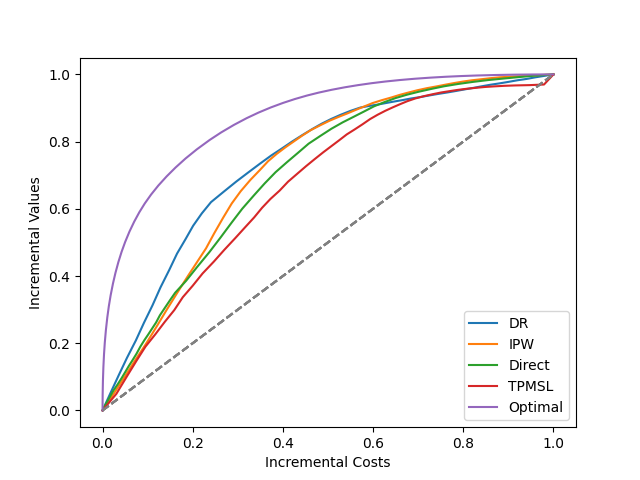
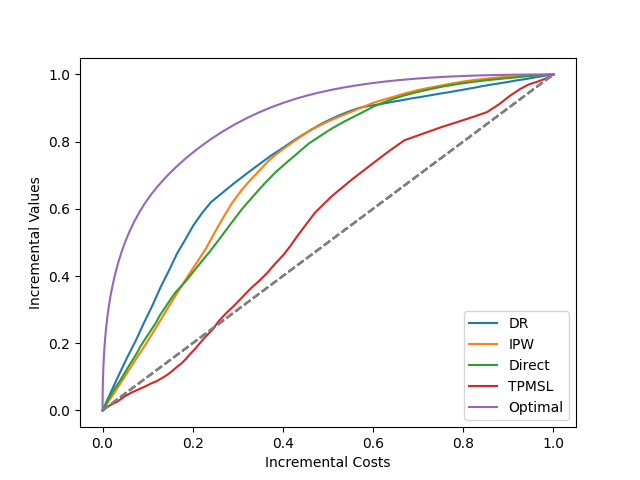
s learnerの実装

diff --git a/main.py b/main.py
@@ -1,7 +1,10 @@
+from typing import Any
+
 import matplotlib.pyplot as plt
 import numpy as np
 import torch
 from lightgbm import LGBMClassifier
+from numpy.typing import NDArray
 from sklearn.preprocessing import MinMaxScaler
 
 from src.evaluate.evaluate import calculate_values, cost_curve
@@ -13,14 +16,18 @@ from src.trainer import Trainer
 torch.manual_seed(42)
 
 
-def get_roi_tpmsl(X_train, y_r_train, y_c_train, T_train, X_test):
-    X = np.concatenate([X_train, T_train.reshape(-1, 1)], axis=1)
-    reg_r = LGBMClassifier(verbose=-1)
-    reg_r.fit(X, y_r_train)
-    reg_c = LGBMClassifier(verbose=-1)
-    reg_c.fit(X, y_c_train)
-    X_0 = np.hstack([X_test, np.zeros((len(X_test), 1))])
-    X_1 = np.hstack([X_test, np.ones((len(X_test), 1))])
+def get_roi_tpmsl(
+    train_dataset: dict[str, NDArray[Any]], test_dataset: dict[str, NDArray[Any]]
+) -> NDArray[np.float64]:
+    X = np.concatenate(
+        [train_dataset["features"], train_dataset["T"].reshape(-1, 1)], axis=1
+    )
+    reg_r = LGBMClassifier(verbose=-1, random_state=42)
+    reg_r.fit(X, train_dataset["y_r"])
+    reg_c = LGBMClassifier(verbose=-1, random_state=42)
+    reg_c.fit(X, train_dataset["y_c"])
+    X_0 = np.hstack([test_dataset["features"], np.zeros((len(test_dataset["features"]), 1))])
+    X_1 = np.hstack([test_dataset["features"], np.ones((len(test_dataset["features"]), 1))])
     mu_r_0 = reg_r.predict_proba(X_0)[:, 1]
     mu_r_1 = reg_r.predict_proba(X_1)[:, 1]
     mu_c_0 = reg_c.predict_proba(X_0)[:, 1]
@@ -85,14 +92,49 @@ def main(predict_ps: bool) -> None:
         trainer.save_model(model, "model.pth")
         predictions = trainer.predict(dl=test_dl, model=model).squeeze()
         roi_dic[method] = predictions
-    roi_tpmsl = get_roi_tpmsl(
-        train_dataset["features"],
-        train_dataset["y_r"],
-        train_dataset["y_c"],
-        train_dataset["T"],
-        test_dataset["features"],
-    )
-    roi_dic["TPMSL"] = roi_tpmsl
+    # roi_tpmsl = get_roi_tpmsl(
+    #     train_dataset,
+    #     test_dataset,
+    # )
+    # roi_dic["TPMSL"] = roi_tpmsl
+    model_name = "SLearner"
+    model_params = {"input_dim": n_features + 1}
+    model = get_model(model_name=model_name, model_params=model_params)
+    method_list: list = ["revenue", "cost"]
+    prediction_sl: dict[str, NDArray[np.float64]] = {}
+    for method in method_list:
+        train_dl = make_loader(
+            train_dataset,
+            model_name=model_name,
+            batch_size=batch_size,
+            train_flg=True,
+            method=method,
+            seed=seed,
+        )
+        val_dl = make_loader(
+            val_dataset,
+            model_name=model_name,
+            batch_size=batch_size,
+            train_flg=True,
+            method=method,
+            seed=seed,
+        )
+        test_dl = make_loader(
+            test_dataset,
+            model_name=model_name,
+            batch_size=batch_size,
+            train_flg=False,
+            method=method,
+            seed=seed,
+        )
+        trainer = Trainer(num_epochs=num_epochs, lr=lr)
+        model = trainer.train(train_dl=train_dl, val_dl=val_dl, model=model)
+        trainer.save_model(model, "model.pth")
+        predictions = trainer.predict(dl=test_dl, model=model).squeeze()
+        prediction_sl[method] = predictions
+    roi_dic["TPMSL"] = prediction_sl["revenue"] / prediction_sl["cost"]
+    scaler = MinMaxScaler()
+    roi_dic["TPMSL"] = scaler.fit_transform(roi_dic["TPMSL"].reshape(-1, 1)).flatten()
     roi_dic["Optimal"] = test_dataset["true_tau_r"] / test_dataset["true_tau_c"]
     plt.clf()
     for roi in roi_dic:

diff --git a/src/make_data.py b/src/make_data.py
@@ -33,6 +33,7 @@ class DatasetGenerator:
         else:
             propensity_score = dataset["T_prob"]
         # rmse = self.calculate_rmse(dataset["T_prob"], propensity_score)
+        # import pdb; pdb.set_trace()
         dataset |= self.generate_visit(dataset["features"], dataset["T"])
         dataset |= self.generate_conversion(
             dataset["features"], dataset["T"], dataset["y_c"]
@@ -126,11 +127,13 @@ class DatasetGenerator:
         # import pdb
 
         # pdb.set_trace()
-        true_tau_c = sigmoid(baseline_effect + interaction_effect - a) - sigmoid(
-            baseline_effect - a
-        )
+        true_mu_c_1 = sigmoid(baseline_effect + interaction_effect - a) + noise
+        true_mu_c_0 = sigmoid(baseline_effect - a) + noise
+        true_tau_c = true_mu_c_1 - true_mu_c_0
         return {
             "y_c": visit,
+            "true_mu_c_1": true_mu_c_1,
+            "true_mu_c_0": true_mu_c_0,
             "true_tau_c": true_tau_c,
         }
 
@@ -158,10 +161,17 @@ class DatasetGenerator:
         plt.hist(prob_purchase, bins=20, alpha=0.5, label="Purchase")
         plt.savefig("purchase_prob.png")
         # import pdb; pdb.set_trace()
-        true_tau_r = sigmoid(baseline_effect_purchase + interaction_effect_purchase - a) - sigmoid(
-            baseline_effect_purchase - a
+        true_mu_r_1 = (
+            sigmoid(baseline_effect_purchase + interaction_effect_purchase - a) + noise
         )
-        return {"y_r": purchase, "true_tau_r": true_tau_r}
+        true_mu_r_0 = sigmoid(baseline_effect_purchase - a) + noise
+        true_tau_r = true_mu_r_1 - true_mu_r_0
+        return {
+            "y_r": purchase,
+            "true_mu_r_1": true_mu_r_1,
+            "true_mu_r_0": true_mu_r_0,
+            "true_tau_r": true_tau_r,
+        }
 
     def culculate_doubly_robust(
         self,
@@ -204,8 +214,10 @@ class DatasetGenerator:
         )
         doubly_robust["y_c_dr"] = np.where(
             T == 1,
-            (y_c - mu_c_1.predict_proba(features)[:, 1]) / T_prob + mu_c_1.predict_proba(features)[:, 1],
-            (y_c - mu_c_0.predict_proba(features)[:, 1]) / (1 - T_prob) + mu_c_0.predict_proba(features)[:, 1],
+            (y_c - mu_c_1.predict_proba(features)[:, 1]) / T_prob
+            + mu_c_1.predict_proba(features)[:, 1],
+            (y_c - mu_c_0.predict_proba(features)[:, 1]) / (1 - T_prob)
+            + mu_c_0.predict_proba(features)[:, 1],
         )
         return doubly_robust
 

diff --git a/src/model/slearner.py b/src/model/slearner.py
@@ -29,8 +29,9 @@ class SlearnerDataset(Dataset):  # type: ignore
     def __getitem__(self, idx: int) -> dict[str, torch.Tensor]:
         X = torch.tensor(self.X[idx], dtype=torch.float32)
         if self.T is not None:
-            T = torch.tensor(self.T[idx], dtype=torch.float32)
-            X = torch.cat([X, T])
+            T = torch.tensor([self.T[idx]], dtype=torch.float32)
+            X = torch.cat([X, T], dim=0)
+
         data = {"X": X}
         if self.y is not None:
             y = torch.tensor(self.y[idx], dtype=torch.float32)
@@ -42,18 +43,30 @@ class SlearnerDataset(Dataset):  # type: ignore
 class SLearnerNonLinear(nn.Module):
     def __init__(self, input_dim: int) -> None:
         super(SLearnerNonLinear, self).__init__()
-        self.fc1 = nn.Linear(input_dim, 2 * input_dim)
-        self.fc2 = nn.Linear(2 * input_dim, input_dim)
-        self.fc3 = nn.Linear(input_dim, int(0.5 * input_dim))
-        self.fc4 = nn.Linear(int(0.5 * input_dim), 1)
+        self.mlp = nn.Sequential(
+            nn.Linear(input_dim, 2 * input_dim),
+            nn.ReLU(),
+            nn.Dropout(0.05),
+            nn.Linear(2 * input_dim, input_dim),
+            nn.ReLU(),
+            nn.Dropout(0.05),
+            nn.Linear(input_dim, int(0.5 * input_dim)),
+            nn.ReLU(),
+            nn.Dropout(0.05),
+            nn.Linear(int(0.5 * input_dim), 1),  # Sigmoidを削除
+        )
         self.criterion = nn.BCEWithLogitsLoss()
 
-    def forward(self, x: torch.Tensor, y: Optional[torch.Tensor] = None) -> dict:
-        x = torch.relu(self.fc1(x))
-        x = torch.relu(self.fc2(x))
-        x = torch.relu(self.fc3(x))
-        x = self.fc4(x)
+    def forward(
+        self, X: torch.Tensor, y: Optional[torch.Tensor] = None
+    ) -> dict[str, torch.Tensor]:
+        pred = self.mlp(X).squeeze()
         if y is not None:
-            return {"pred": x, "loss": self.criterion(x, y)}
+            return {"pred": pred, "loss": self.criterion(pred, y)}
         else:
-            return {"pred": x}
+            X_1 = torch.cat([X, torch.ones((X.size(0), 1))], dim=1)
+            X_0 = torch.cat([X, torch.zeros((X.size(0), 1))], dim=1)
+            mu_1 = self.mlp(X_1)
+            mu_0 = self.mlp(X_0)
+            tau = mu_1 - mu_0
+            return {"pred": tau}

diff --git a/src/model/common.py b/src/model/common.py
@@ -28,12 +28,21 @@ def make_loader(
     collator = None
     ds: Dataset  # type: ignore
     if model_name == "SLearner":
-        ds = SlearnerDataset(
-            X=dataset["features"],
-            T=dataset["T"],
-            y=dataset["y"],
-            seed=seed,
-        )
+        if method == "revenue":
+            ds = SlearnerDataset(
+                X=dataset["features"],
+                T=dataset["T"],
+                y=dataset["y_r"],
+                seed=seed,
+            )
+        elif method == "cost":
+            ds = SlearnerDataset(
+                X=dataset["features"],
+                T=dataset["T"],
+                y=dataset["y_c"],
+                seed=seed,
+            )
+
     elif model_name == "Direct":
         if train_flg:
             if method == "DR":

diff --git a/src/evaluate/evaluate.py b/src/evaluate/evaluate.py
@@ -99,10 +99,10 @@ def cost_curve(
         return difference
 
     # 0から1まで積分
-    area, error = quad(area_above_y_equals_x, 0, 1)
-    print(
-        f"The area above y = x is approximately {area:.4f}, with an error of {error:.4e}."
-    )
+    # area, error = quad(area_above_y_equals_x, 0, 1)
+    # print(
+    #     f"The area above y = x is approximately {area:.4f}, with an error of {error:.4e}."
+    # )
 
 
 # # 例として適用するデータ
